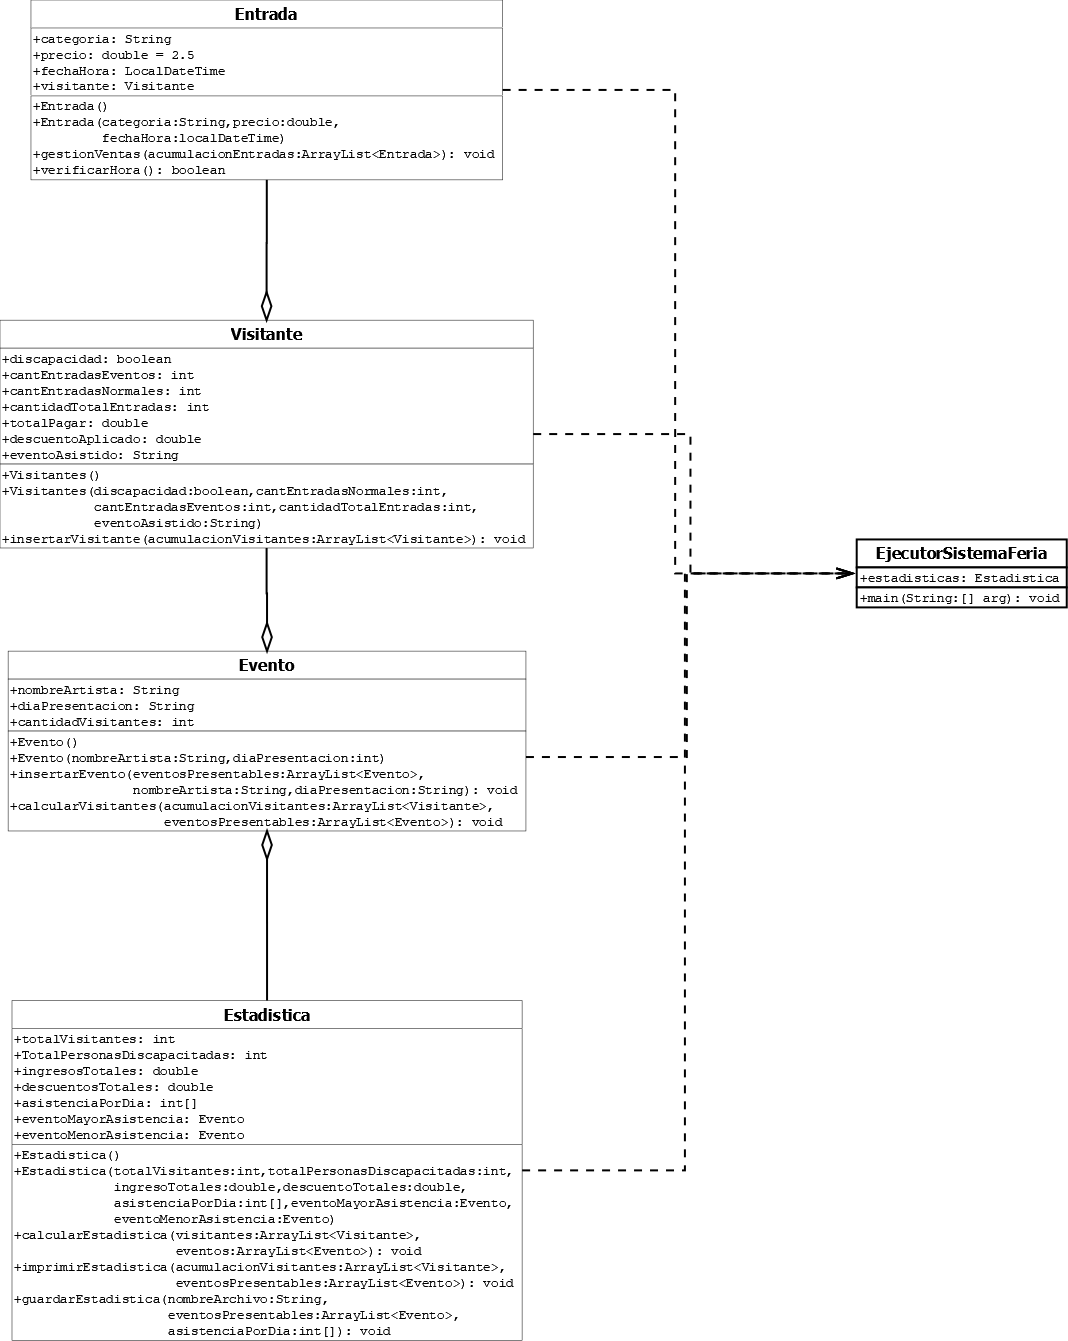
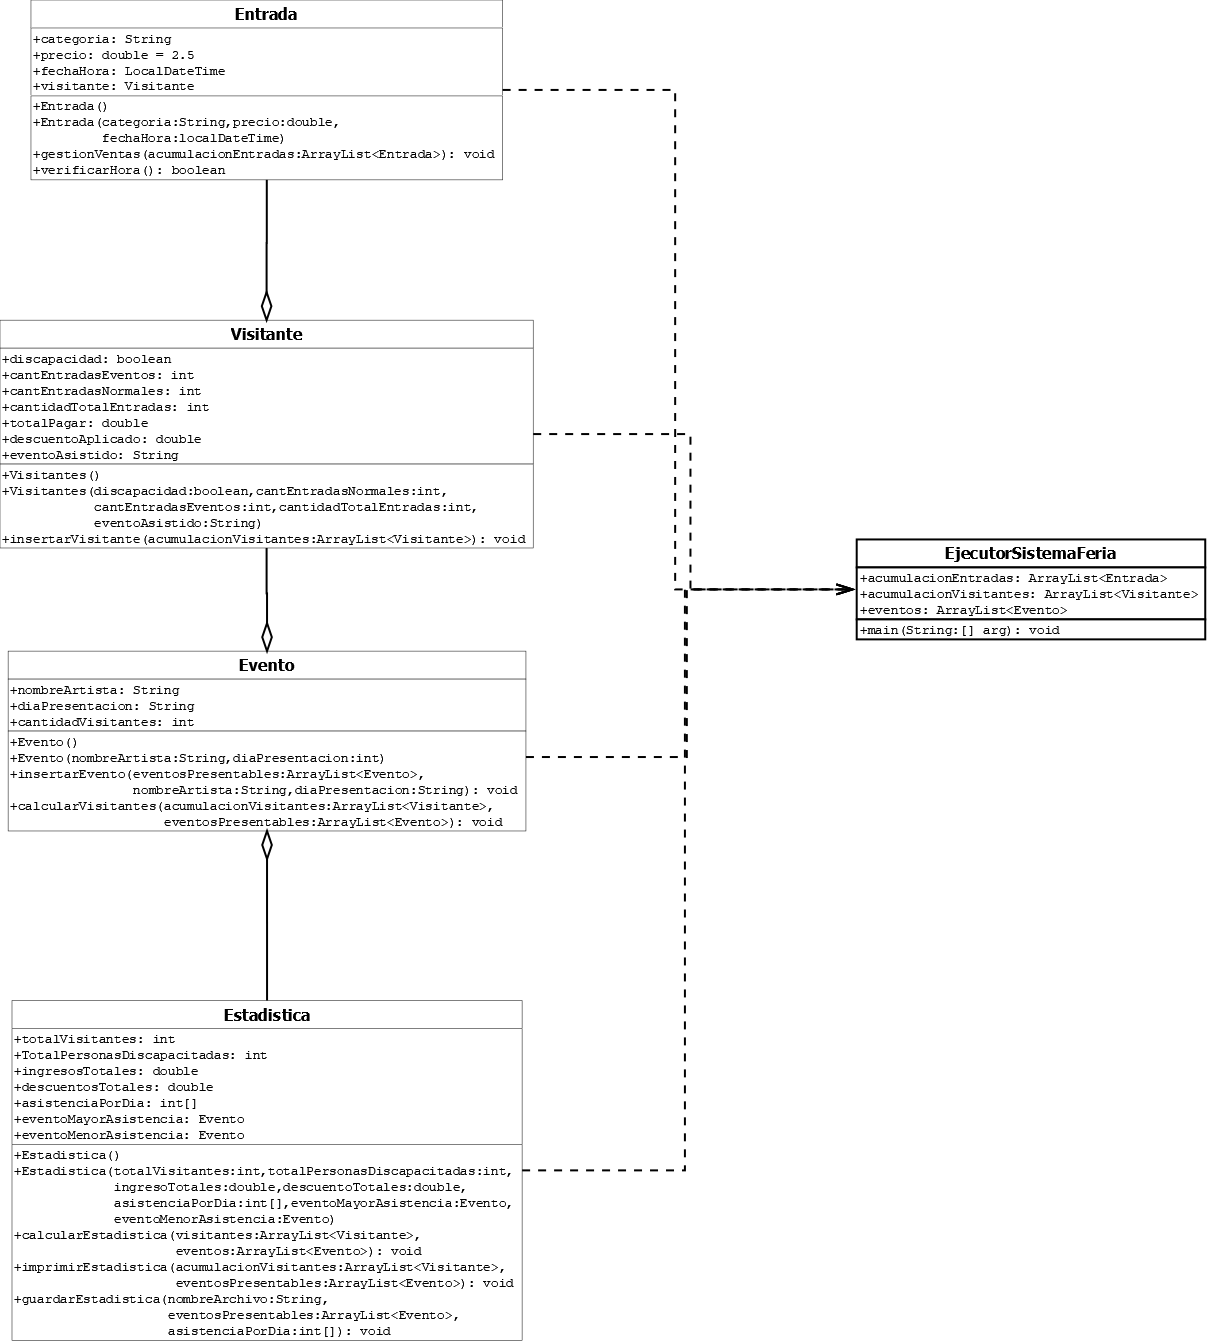
Implementacion de los paquetes modelo, vista y controlador para la correcta implementacion de los paquetes

diff --git a/Solucion_Codigo/proyectoBimestral_G6/src/Controlador/EjecutorSistemaFeria.java b/Solucion_Codigo/proyectoBimestral_G6/src/Controlador/EjecutorSistemaFeria.java
@@ -1,3 +1,12 @@
+package Controlador;
+
+//Importaciones de los archivos java, que se encuentran en diferentes paquetes del proyecto
+import Modelo.Visitante;
+import Modelo.Evento;
+import Modelo.Entrada;
+
+
+import Vista.Estadistica;
 import java.time.LocalDateTime; //Extrae la hora y fecha
 import java.util.*; //Para el arrayList y el Scanner 
 public class EjecutorSistemaFeria {

diff --git a/Solucion_Codigo/proyectoBimestral_G6/src/Vista/Estadistica.java b/Solucion_Codigo/proyectoBimestral_G6/src/Vista/Estadistica.java
@@ -1,6 +1,10 @@
+package Vista;
+
 
 //Librerias para el manejo de archivos
 //No vi la necesidad de guardar los objetos entonces decidi no ocupar serializacion de objetos
+import Modelo.Visitante;
+import Modelo.Evento;
 import java.io.FileWriter;
 import java.io.IOException;
 import java.util.ArrayList;

diff --git a/Solucion_Codigo/proyectoBimestral_G6/src/Modelo/Entrada.java b/Solucion_Codigo/proyectoBimestral_G6/src/Modelo/Entrada.java
@@ -1,3 +1,5 @@
+package Modelo;
+
 
 import java.time.DayOfWeek; //Esta libreria sirve para verificar los dias de la semana
 import java.time.LocalDate; //Extrae la fecha (Solo dias no horas, esto se cambio con respecto al UML)

diff --git a/Solucion_Codigo/proyectoBimestral_G6/src/Modelo/Evento.java b/Solucion_Codigo/proyectoBimestral_G6/src/Modelo/Evento.java
@@ -1,3 +1,5 @@
+package Modelo;
+
 
 import java.util.ArrayList;
 

diff --git a/Solucion_Codigo/proyectoBimestral_G6/src/Modelo/Visitante.java b/Solucion_Codigo/proyectoBimestral_G6/src/Modelo/Visitante.java
@@ -1,3 +1,5 @@
+package Modelo;
+
 
 import java.util.ArrayList;
 
